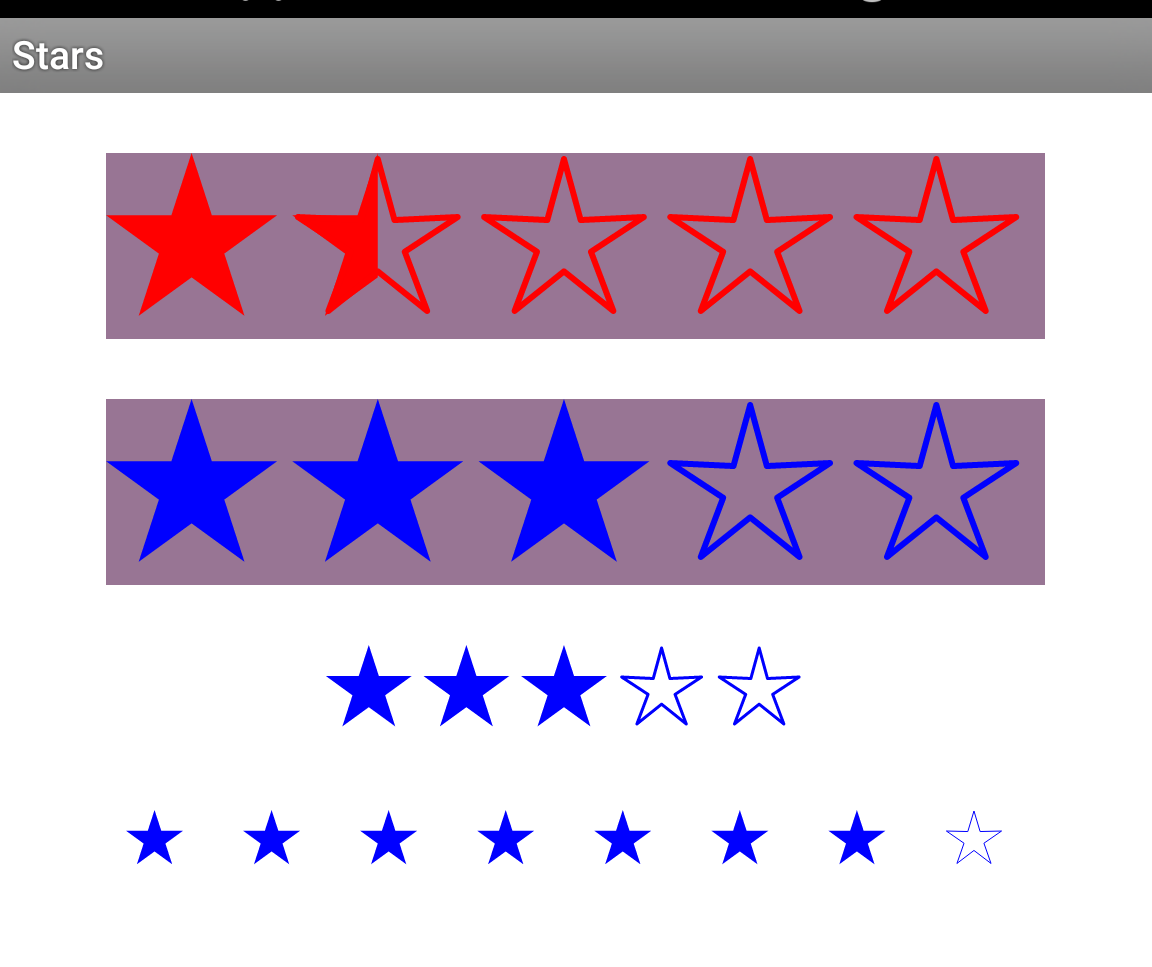
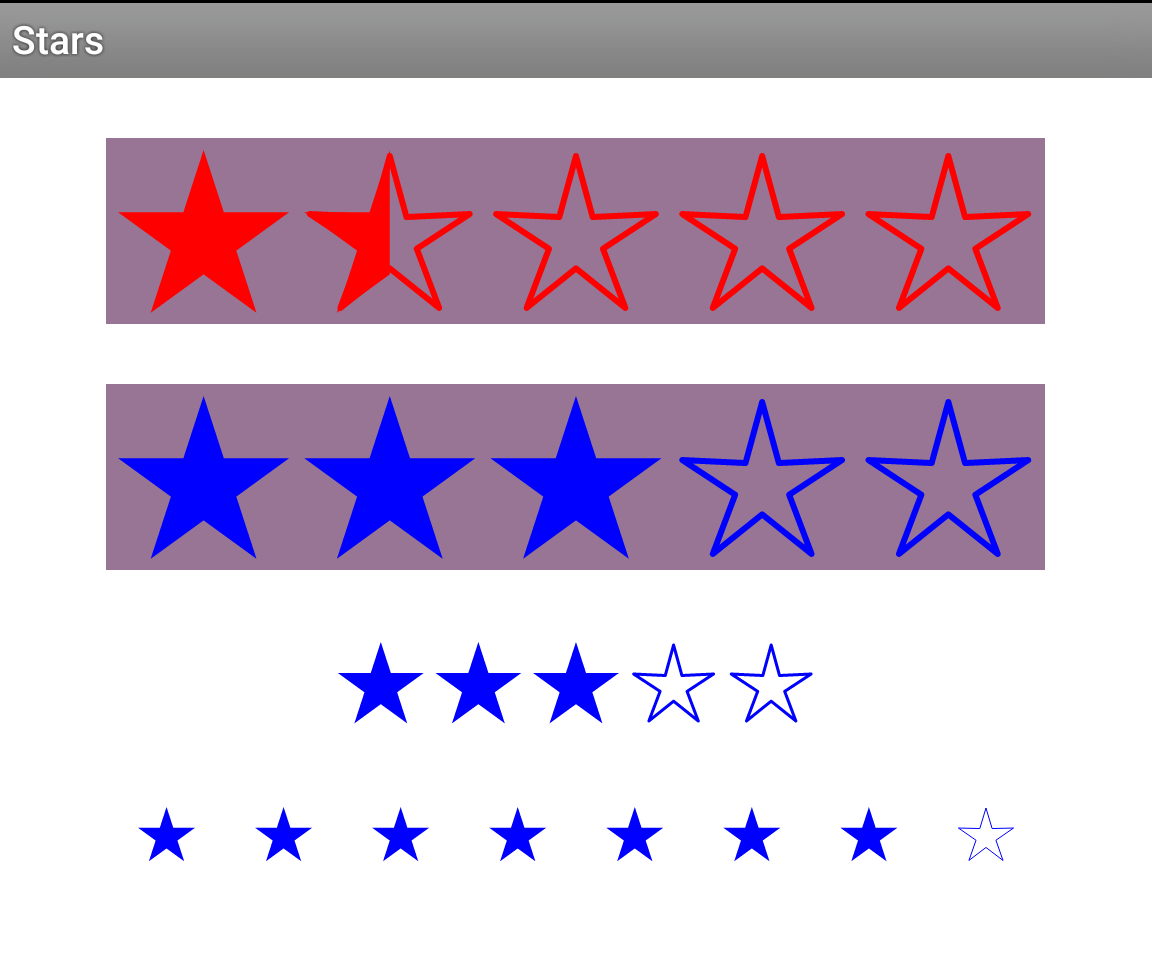
updata

diff --git a/src/com/h/stars/StarsScoreView.java b/src/com/h/stars/StarsScoreView.java
@@ -10,6 +10,7 @@ import android.graphics.Paint.Cap;
 import android.graphics.Paint.Join;
 import android.graphics.Paint.Style;
 import android.graphics.Path;
+import android.graphics.Rect;
 import android.util.AttributeSet;
 import android.view.MotionEvent;
 import android.view.View;
@@ -121,9 +122,9 @@ public class StarsScoreView extends View {
 		super.onDraw(canvas);
 		if (maxProgress == 0)
 			return;
-
 		float itemProgress = maxProgress / mMaxStar; // 每个星星多少分
 		int num = (int) (mProgress / itemProgress); // 需要完整星星多少个
+		canvas.translate(getPaddingLeft(), getPaddingTop());
 		// 需要多少个完整的星星
 		for (int i = 0; i < num; i++) {
 			canvas.save();
